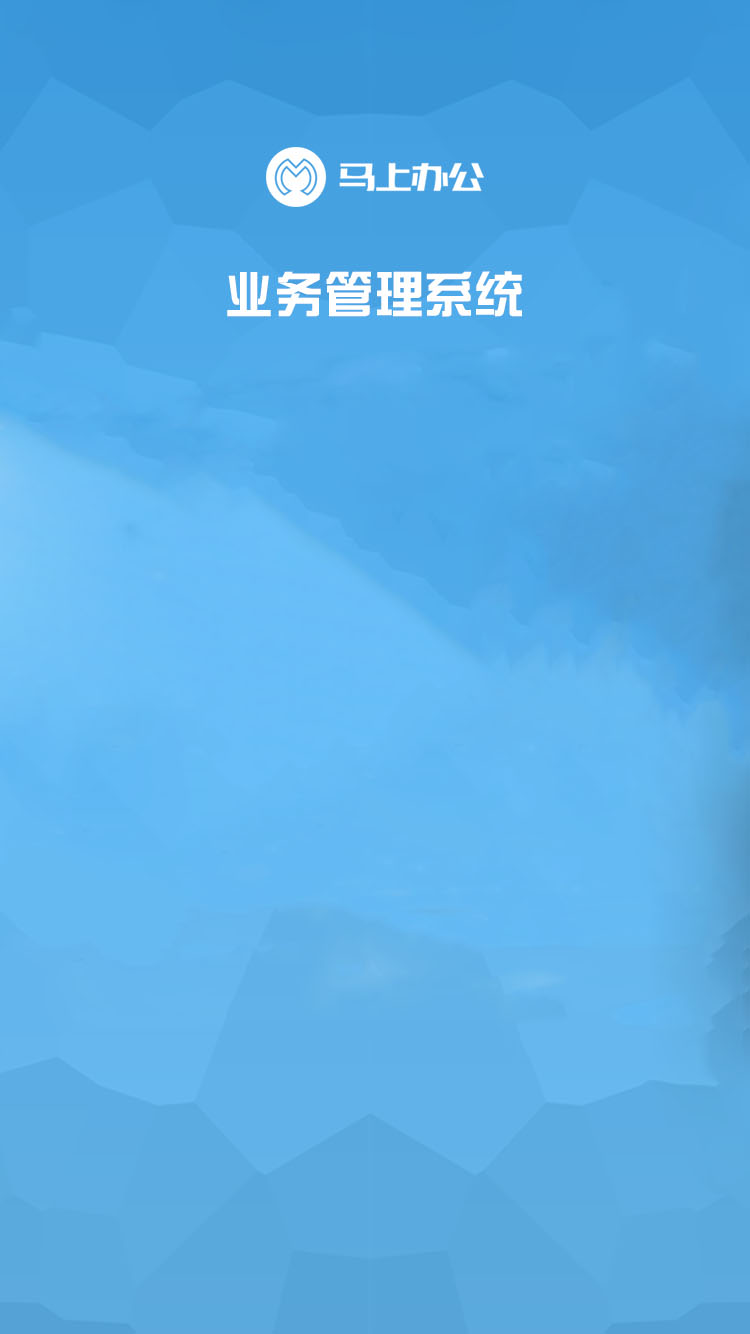
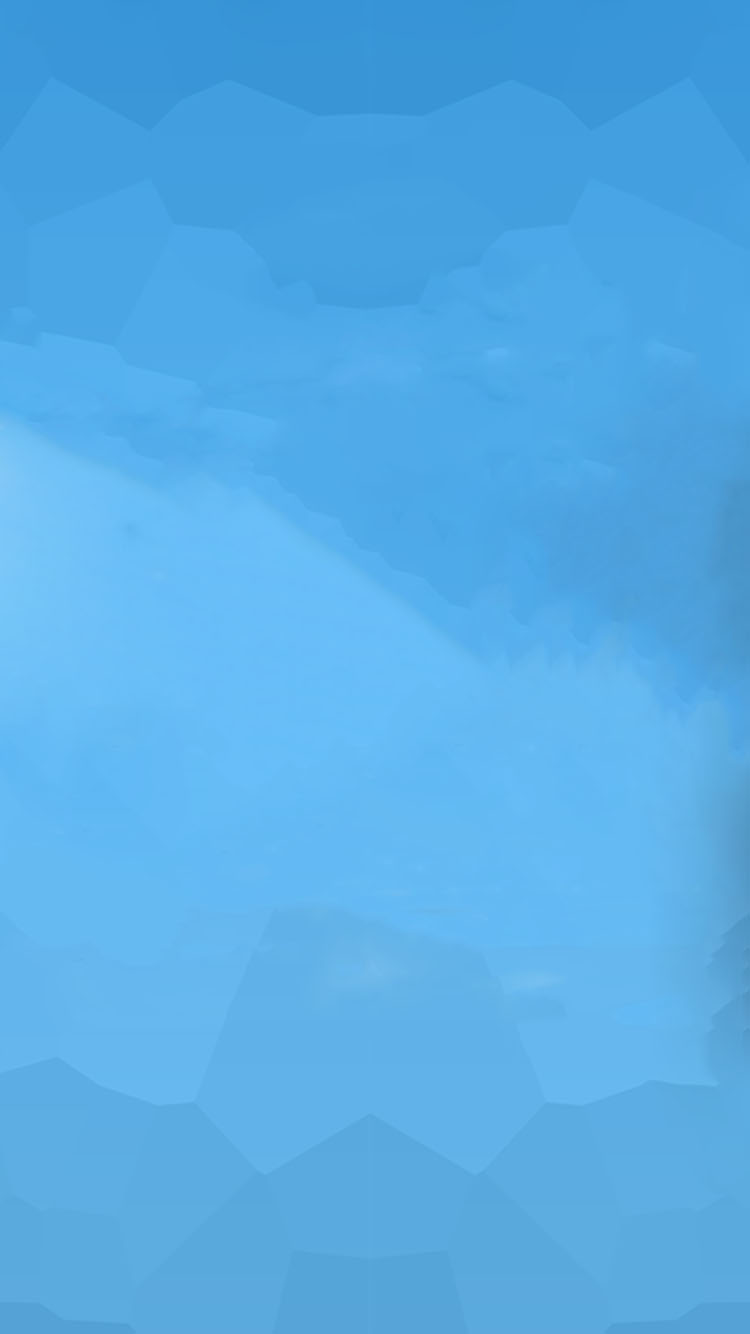
首页更新
调整登录页，更新首页

Changed region(s): [[0.3067, 0.1844, 0.7053, 0.2459], [0.3373, 0.0922, 0.644, 0.1537]]

diff --git a/src/pages/main/main.vue b/src/pages/main/main.vue
@@ -3,8 +3,14 @@
   <div id="main">
     <Header :title="title"/>
     <div class="picture"></div>
-   
-    
+    <div class="welcome">欢迎回来 </div>
+    <ul>
+      <li class="list"></li>
+      <li class="message"></li>
+      <li class="map"></li>
+      <li class="deal"></li>
+    </ul>
+     
   </div>
 </template>
 
@@ -33,8 +39,43 @@ export default {
        width 100%
        height 2.7rem
        border .02rem solid pink
-       background url(../../assets/img/bannar.jpg)
+       background url(../../assets/img/bannar.jpg)  
        background-size 100%
+    .welcome
+       width 7.5rem
+       height 1rem
+       background url(../../assets/img/welcome.png) no-repeat  
+       text-indent 0.6rem
+       line-height 1rem
+       border-bottom .02rem solid #ebebeb
+     ul
+       width 7.5rem
+       height 3.5rem
+       margin-top 0.32rem
+       li
+        float left
+        margin: 0 0.5rem 0.4rem;
+       .list
+        width 1.28rem
+        height  1.5rem
+        background url(../../assets/img/list.jpg)  
+        background-size: 100% 
+       .message
+        width 1.69rem
+        height  1.5rem
+        background url(../../assets/img/message.jpg)  
+        background-size: 100% 
+       .map
+        width 1.1rem
+        height  1.5rem
+        background url(../../assets/img/map.jpg)  
+        background-size: 100% 
+       .deal
+        width 1.69rem
+        height  1.5rem
+        background url(../../assets/img/deal.jpg)  
+        background-size: 100% 
+        margin-left 0.3rem
     
      
 </style>

diff --git a/src/pages/register/loginn.vue b/src/pages/register/loginn.vue
@@ -2,7 +2,7 @@
 
   <div id="big">
     <div class="bi">
- 
+    <div class="title"></div>
      <ul>
        <li>
          <input type="text"  placeholder="输入工号"  v-model="userid">
@@ -40,19 +40,25 @@ export default {
 #big 
   height 100%
   width 100%
-  background-image url(../../assets/img/bei.jpg) 
-  background-size 100%
+  background: url(../../assets/img/bei.jpg)  no-repeat
+  background-size: 100% 100%
   .bi
     width: 6.5rem
     text-align: center
     margin: 0 auto
     padding-top: 4.2rem
     color #fff
+    .title
+      width 3.59rem
+      height: 2.07rem
+      background url(../../assets/img/title.jpg)  
+      background-size 100%
+      margin: -2.3rem 0 1.5rem 1.5rem
     ul
       width 6.5rem
       height 3rem
       border .02rem solid  
-      background-image url(../../assets/img/gonghao.png) 
+      background-image url(../../assets/img/gonghao.png)  
       background-size 100%
       li
         height 1rem
@@ -75,5 +81,6 @@ export default {
        line-height 0.94rem
        margin-top 0.5rem
        background #108ee9
+       color #fff
        
 </style>
